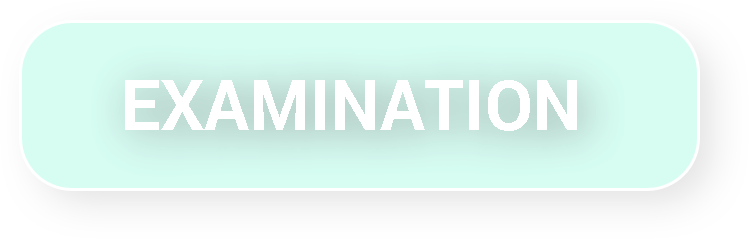
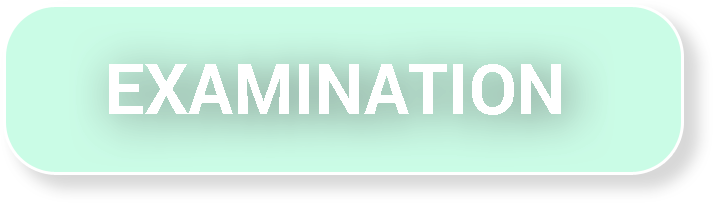
disable effect

Changed region(s): [[0.0, 0.0296, 0.9874, 0.9163], [0.1543, 0.2956, 0.8331, 0.6207]]

diff --git a/English for all levels/ViewControllers/MainScreen/MainScreen.swift b/English for all levels/ViewControllers/MainScreen/MainScreen.swift
@@ -26,11 +26,11 @@ class MainScreen: DownloadViewController {
         super.viewDidLoad()
         self.navigationController?.navigationBarHidden = true
         GoogleAdsHelper.loadBanner(bannerView, uiViewController: self)
-        for index in 0..<buttons.count{
+        /*for index in 0..<buttons.count{
             let highlightImg = UIImage(named:"\(imgHighlight[index]).png")
             buttons[index].setImage(highlightImg, forState: .Selected)
             buttons[index].setImage(highlightImg, forState: .Highlighted)
-        }
+        }*/
     }
 
     @IBAction func onExercise(sender: AnyObject) {
